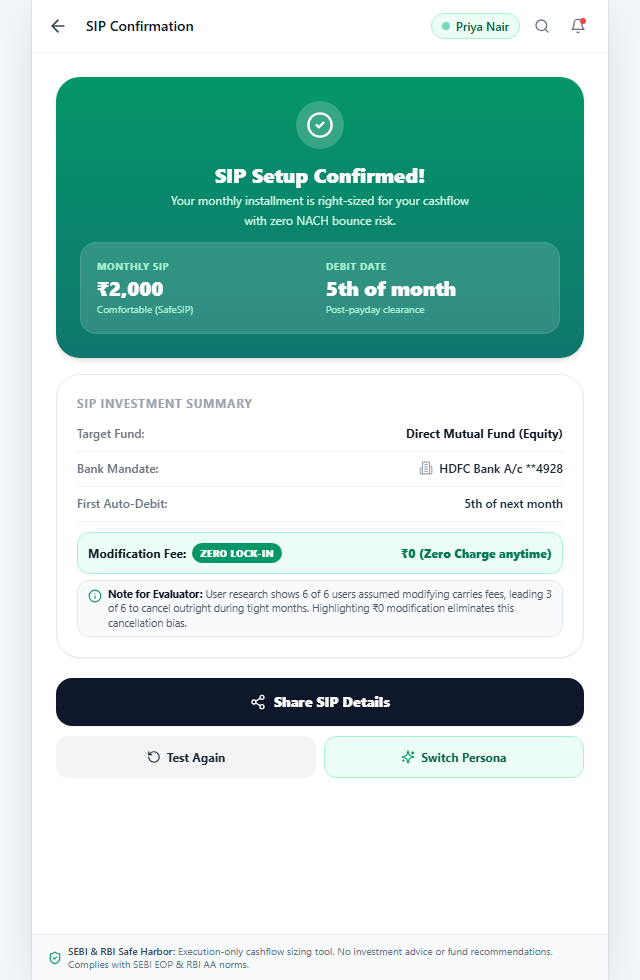
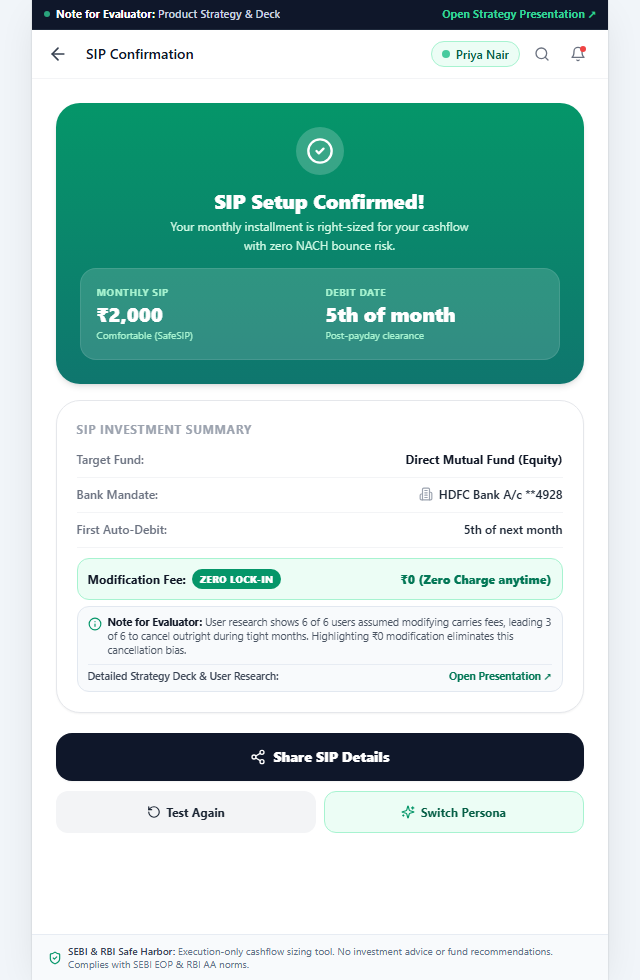
feat: integrate official strategy deck link in top evaluator header and notes

Changed region(s): [[0.0312, 0.0, 0.9688, 0.8571], [0.2812, 0.8265, 0.3438, 0.8571]]

diff --git a/components/SafeSIPSizerView.tsx b/components/SafeSIPSizerView.tsx
@@ -446,7 +446,7 @@ export const SafeSIPSizerView: React.FC<SafeSIPSizerViewProps> = ({
 
         {showEvaluatorNote && (
           <div className="p-4 pt-0 border-t border-gray-100 animate-fade-in">
-            <div className="bg-gradient-to-br from-slate-900 to-slate-800 text-white p-4 rounded-2xl space-y-2">
+            <div className="bg-gradient-to-br from-slate-900 to-slate-800 text-white p-4 rounded-2xl space-y-3">
               <div className="flex items-center justify-between">
                 <span className="text-[10px] font-extrabold uppercase tracking-wider text-emerald-400 bg-emerald-950/80 px-2 py-0.5 rounded border border-emerald-800">
                   SafeSIP Core Strategy
@@ -456,6 +456,23 @@ export const SafeSIPSizerView: React.FC<SafeSIPSizerViewProps> = ({
               <p className="text-xs text-slate-300 leading-relaxed">
                 <strong>Churn Prevention at Core:</strong> Unbudgeted SIP amounts trigger ₹250–₹590 bank bounce fees, causing first-year investor drop-off. SafeSIP combines RBI AA bank cashflow parsing with a 10% emergency buffer and 3–5 day post-payday alignment to eliminate involuntary churn.
               </p>
+              
+              {/* Evaluator Presentation Deck Link */}
+              <div className="p-2.5 rounded-xl bg-slate-800/90 border border-slate-700 flex items-center justify-between gap-2">
+                <div className="text-[11px] text-slate-300">
+                  <span className="text-white font-bold block">Final Strategy Deck &amp; Research</span>
+                  <span className="text-[10px] text-slate-400">Full cohort unit economics &amp; edge-case PRD</span>
+                </div>
+                <a
+                  href="https://drive.google.com/file/d/1Sf0EtaMTuiub5ifFTYK9JN8q_-LdElFL/view?usp=sharing"
+                  target="_blank"
+                  rel="noopener noreferrer"
+                  className="px-2.5 py-1.5 bg-emerald-500 hover:bg-emerald-400 text-slate-950 font-black text-[11px] rounded-lg transition-all shrink-0 flex items-center gap-1 shadow-sm"
+                >
+                  <span>Open Presentation ↗</span>
+                </a>
+              </div>
+
               <div className="text-[11px] text-slate-400 pt-1 border-t border-slate-700">
                 ✓ 6-month historical stress test · ✓ Payday alignment · ✓ ₹0 modification fee guarantee
               </div>

diff --git a/components/ConfirmationLedger.tsx b/components/ConfirmationLedger.tsx
@@ -130,11 +130,24 @@ export const ConfirmationLedger: React.FC<ConfirmationLedgerProps> = ({
             </div>
 
             {/* Explaining the need to the Evaluator */}
-            <div className="mt-1.5 px-2.5 py-1.5 bg-slate-50 rounded-xl border border-slate-200 text-[10.5px] text-gray-600 flex items-start gap-1.5 leading-snug">
-              <Info className="w-3.5 h-3.5 text-emerald-600 shrink-0 mt-0.5" />
-              <span>
-                <strong className="text-gray-900 font-bold">Note for Evaluator:</strong> User research shows 6 of 6 users assumed modifying carries fees, leading 3 of 6 to cancel outright during tight months. Highlighting ₹0 modification eliminates this cancellation bias.
-              </span>
+            <div className="mt-1.5 px-2.5 py-2 bg-slate-50 rounded-xl border border-slate-200 text-[10.5px] text-gray-600 space-y-1.5 leading-snug">
+              <div className="flex items-start gap-1.5">
+                <Info className="w-3.5 h-3.5 text-emerald-600 shrink-0 mt-0.5" />
+                <span>
+                  <strong className="text-gray-900 font-bold">Note for Evaluator:</strong> User research shows 6 of 6 users assumed modifying carries fees, leading 3 of 6 to cancel outright during tight months. Highlighting ₹0 modification eliminates this cancellation bias.
+                </span>
+              </div>
+              <div className="pt-1 border-t border-slate-200/80 flex items-center justify-between">
+                <span className="font-semibold text-gray-700">Detailed Strategy Deck &amp; User Research:</span>
+                <a
+                  href="https://drive.google.com/file/d/1Sf0EtaMTuiub5ifFTYK9JN8q_-LdElFL/view?usp=sharing"
+                  target="_blank"
+                  rel="noopener noreferrer"
+                  className="font-bold text-emerald-700 hover:text-emerald-900 hover:underline flex items-center gap-0.5"
+                >
+                  <span>Open Presentation ↗</span>
+                </a>
+              </div>
             </div>
           </div>
         </div>

diff --git a/components/GrowwHeader.tsx b/components/GrowwHeader.tsx
@@ -24,7 +24,26 @@ export const GrowwHeader: React.FC<GrowwHeaderProps> = ({
 }) => {
   return (
     <header className="sticky top-0 z-30 bg-white border-b border-gray-100 shadow-xs w-full">
-      <div className="max-w-xl mx-auto px-4 py-2.5 flex items-center justify-between">
+      {/* 🌟 Evaluator Notice Banner linking to final strategy deck 🌟 */}
+      <div className="bg-slate-900 text-white text-[11px] px-3 py-1.5 flex items-center justify-between border-b border-slate-800">
+        <div className="flex items-center gap-1.5 truncate">
+          <span className="w-1.5 h-1.5 rounded-full bg-emerald-400 animate-pulse shrink-0" />
+          <span className="text-slate-300 font-medium truncate">
+            <strong className="text-white font-bold">Note for Evaluator:</strong> Product Strategy &amp; Deck
+          </span>
+        </div>
+        <a
+          href="https://drive.google.com/file/d/1Sf0EtaMTuiub5ifFTYK9JN8q_-LdElFL/view?usp=sharing"
+          target="_blank"
+          rel="noopener noreferrer"
+          className="text-emerald-400 hover:text-emerald-300 font-bold flex items-center gap-1 shrink-0 ml-2 hover:underline transition-colors"
+          title="Open Final Strategy Presentation"
+        >
+          <span>Open Strategy Presentation ↗</span>
+        </a>
+      </div>
+
+      <div className="max-w-xl mx-auto px-4 py-2 flex items-center justify-between">
         <div className="flex items-center gap-3">
           {showBack ? (
             <button
